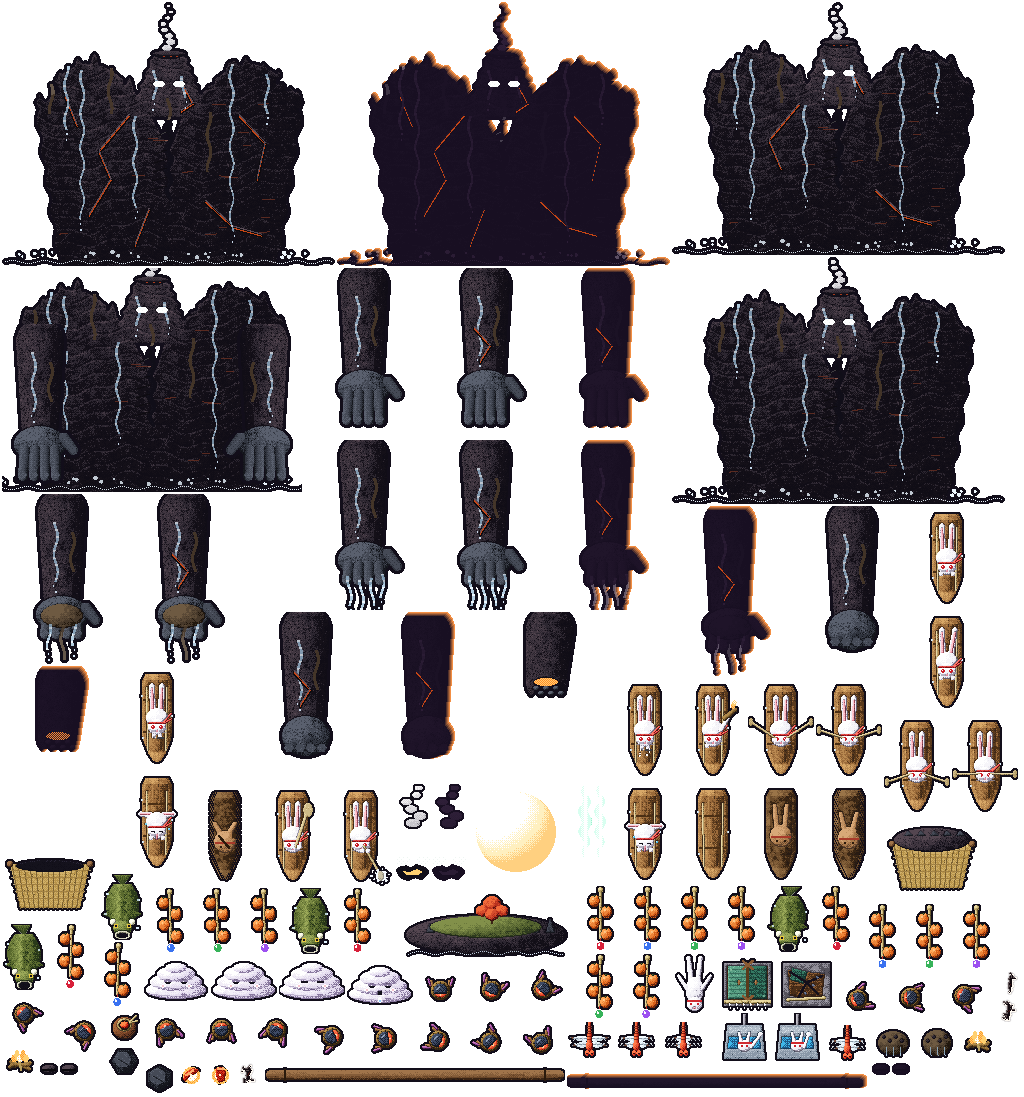
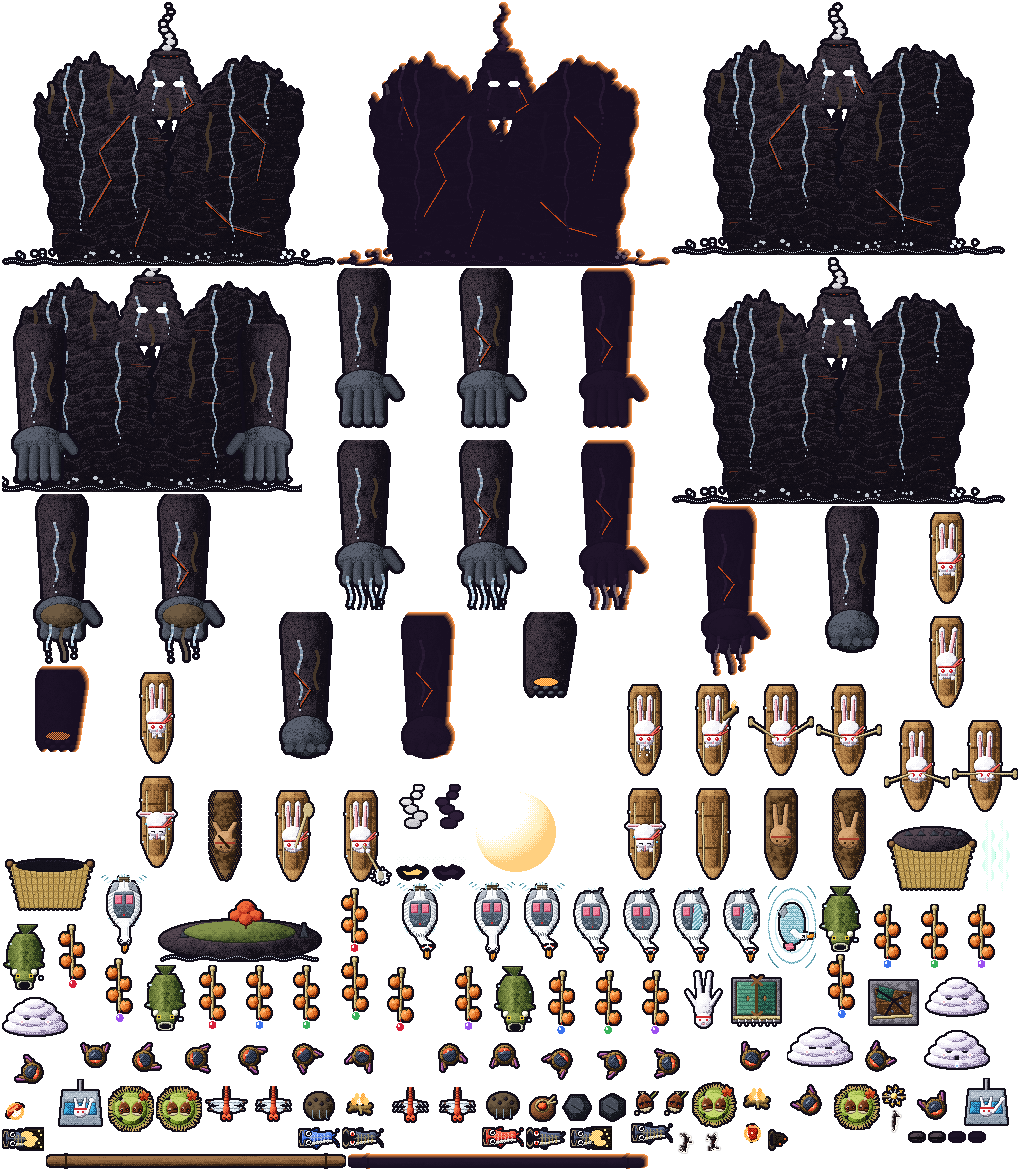
Stronger waves, steps 2-5 for Kawaguchiko: into the game. The designs in Kawaguchiko's atlas, its skin (a hemp line, the carps red, black and blue in turn, the black one waking; the burr's crackle). 3 lines of koinobori across Honcho-dori at 2.6, 7.8 and 14.2 s, their poles on the roofs and in Araku

diff --git a/src/game/enemyArt.js b/src/game/enemyArt.js
@@ -151,7 +151,8 @@ export const CITY_ANIMS = {
   ky_kai: [four('ky_kai'), 4], ky_kai_one: [['ky_kai_one_0', 'ky_kai_one_1'], 6],
   ok_yashi: [four('ok_yashi'), 4], ok_yashi_one: [['ok_yashi_one_0', 'ok_yashi_one_1'], 6], ok_gyu_run: [['ok_gyu_run_0', 'ok_gyu_run_1'], 8],
   ng_manju: [four('ng_manju'), 4], ng_manju_one: [['ng_manju_one_0', 'ng_manju_one_1'], 6],
-  ...Object.fromEntries([0, 1, 2, 3].flatMap((st) => [[`o_ferry_${st}`, [[`o_ferry_${st}_0`, `o_ferry_${st}_1`], 4]], [`ky_hoko_${st}`, [[`ky_hoko_${st}_0`, `ky_hoko_${st}_1`], 6]], [`ok_gyu_${st}`, [[`ok_gyu_${st}_0`, `ok_gyu_${st}_1`], 3]], [`ng_kujira_${st}`, [[`ng_kujira_${st}_0`, `ng_kujira_${st}_1`], 5]]])),
+  k_iga: [four('k_iga'), 4], k_iga_one: [['k_iga_one_0', 'k_iga_one_1'], 6],
+  ...Object.fromEntries([0, 1, 2, 3].flatMap((st) => [[`o_ferry_${st}`, [[`o_ferry_${st}_0`, `o_ferry_${st}_1`], 4]], [`ky_hoko_${st}`, [[`ky_hoko_${st}_0`, `ky_hoko_${st}_1`], 6]], [`ok_gyu_${st}`, [[`ok_gyu_${st}_0`, `ok_gyu_${st}_1`], 3]], [`ng_kujira_${st}`, [[`ng_kujira_${st}_0`, `ng_kujira_${st}_1`], 5]], [`k_hakucho_${st}`, [[`k_hakucho_${st}_0`, `k_hakucho_${st}_1`], 4]]])),
   // Fukuoka
   f_tobiume: [four('f_tobiume'), 12], f_goma: [four('f_goma'), 16], f_fugu: [four('f_fugu'), 3],
   f_mentaiko: [four('f_mentaiko'), 5], f_mentaiko_one: [['f_mentaiko_one_0', 'f_mentaiko_one_1'], 6],

diff --git a/src/game/skins.js b/src/game/skins.js
@@ -164,6 +164,9 @@ export const SKINS = {
     carrier: { frame: 'k_hoshigaki_{c}_0', anim: 'k_hoshigaki_{c}' },
     heavy: { frame: 'k_usagi_rest_0', kind: 'usagi' }, // the miniboss: KACHI-KACHI USAGI (kawaguchiko-usagi.js)
     turret: { base: 'k_hokora_base', head: 'k_hokora_head_', wreck: 'k_hokora_wreck', heat: true }, // (its mirror glows red before it fires)
+    chain: { frame: 'k_koi_0', frames: ['k_koi_1', 'k_koi_0', 'k_koi_2'], eye: 'k_koi_eye_', lit: 'k_koi_lit_', burnt: 'k_koi_burnt', pole: 'k_koi_pole', rope: 0xd0c4a8 }, // koinobori on a line across Honcho-dori (enemies/chainSplitCart.js)
+    split: { frame: 'k_iga_0', anim: 'k_iga', one: 'k_iga_one_0', oneAnim: 'k_iga_one', sound: 'crackle' }, // a chestnut burr of the maple corridor, cracking open
+    cart: { anim: 'k_hakucho_', wreck: 'k_hakucho_wreck', debris: 0xe8ecf0, light: 0xc8e8f0 }, // a swan pedal boat paddling itself down the lake
   },
   // Onomichi (docs/plan-onomichi.md): swallows of summer in flocks, a dried flatfish come alive, a glass wind bell with
   // an eye, firework shells with their fuses lit, the demon tile on a temple's ridge, and NEKOMATA on the roofs

diff --git a/docs/plan-silniejsze-fale.md b/docs/plan-silniejsze-fale.md
@@ -169,3 +169,4 @@ Wydłużone (2026-11-19): tanuki i raijū 34 → 45 s, manta 34 → 39 s (przy 4
 Bot nie zestrzeliwuje ich częściej, tylko odlatują z mniejszym zapasem: walki, które się przeciągają, przeciągają się dalej (w drugiej fazie bot zbija ok. 1-2% na sekundę). To więc nie brak czasu, tylko to, jak bot strzela w drugiej fazie; ile da graczowi 11 s więcej, pokaże dopiero przelot człowieka albo mądrzejszy bot.
 
 | 2026-11-19 | Claude | 1 (Kawaguchiko) | Projekty grafiki do akceptacji, `tools/art/kawaguchiko/newfoes.mjs`: karpie koinobori na linie nad Honchō-dōri, między masztami z wiatraczkami yaguruma i złotą kulą; wiatr wieje wzdłuż linii, więc każdy karp ciągnie od obręczy ku następnemu (czarny ojciec, czerwona matka, niebieskie dziecko na zmianę); budzi się czarny: namalowane oko robi się czerwone, pyszczek się rozdziawia (strzela); płonący od ogona, zostaje zwęglona obręcz ze strzępem. Łupina kasztana z korytarza klonów, pęknięta na cztery, z dwoma błyszczącymi kasztanami, które na zmianę łypią na czerwono, z liściem klonu na kolcach; osobno kasztan z jasną podstawą, kępką i kolcem w boku. Rowerek wodny-łabędź płynący w dół jeziora: białe ciało, skrzydła wzdłuż burt, kokpit z dwoma różowymi siedzeniami, pedałami i sterem, długa szyja i głowa z pomarańczowym dziobem, koło łopatkowe pod ogonem w pianie, kilwater; rozpad: szyja wybita na bok i pęknięta u nasady (oczy czerwone), urwane koło (korba się kiwa, łódź zbacza), rozbita burta i woda w kokpicie; wrak pod wodą: widać tylko zgiętą szyję z głową, czubek skrzydła i poduszkę, rozchodzą się kręgi. Jeszcze nie w atlasie ani w grze. | Łabędź jest większy od rowerków przy przystani (to yokai). |
+| 2026-11-19 | Claude | 2-5 (Kawaguchiko) | Grafika w atlasie `bg/stage10`, skórka (konopna linka, karpie na zmianę czerwony, czarny i niebieski; budzi się czarny; trzask łupiny). 3 linki z karpiami nad Honchō-dōri (2,6 s, 7,8 s i 14,2 s; maszty na dachach i w lesie Arakurayamy, z dala od torów, ulic poprzecznych i brązowej torii). 12 łupin kasztanów w miejscu fal popcornu: po 4 w Fujiyoshidzie, w Kawaguchi i w korytarzu klonów, żadnej nad jeziorem. Łabędź w 80 s na otwartym jeziorze, z dala od Unoshimy, przed ciszą przed zającem. Popcorn 44%. Bot (4 bronie, moc 4), trafienia przed bossem: 13 → 10 na normalnym, 2 → 5 na łatwym (w granicach rozrzutu); liny, łupiny i łabędź zestrzelone za każdym razem. Test: kawaguchikoWaves. | |
